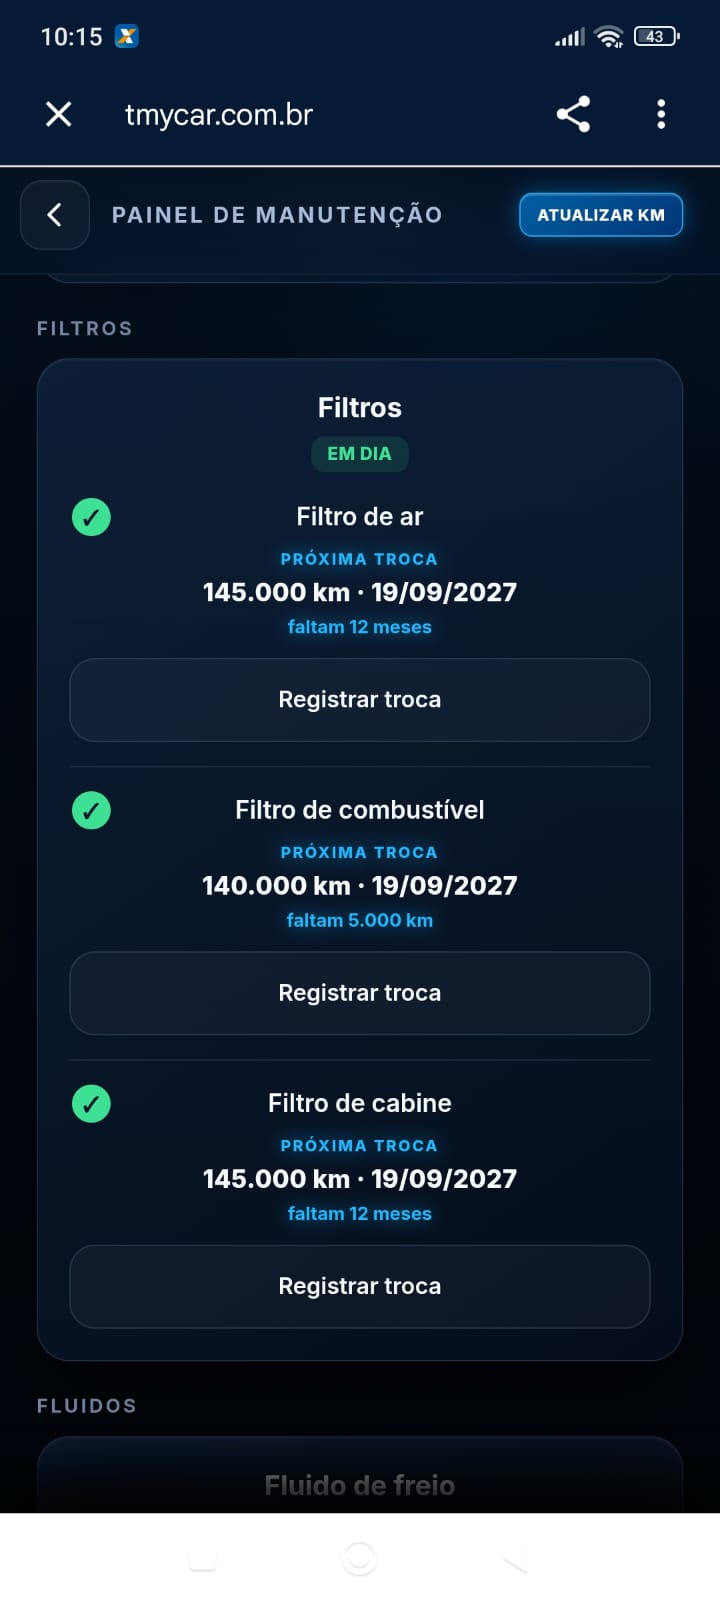
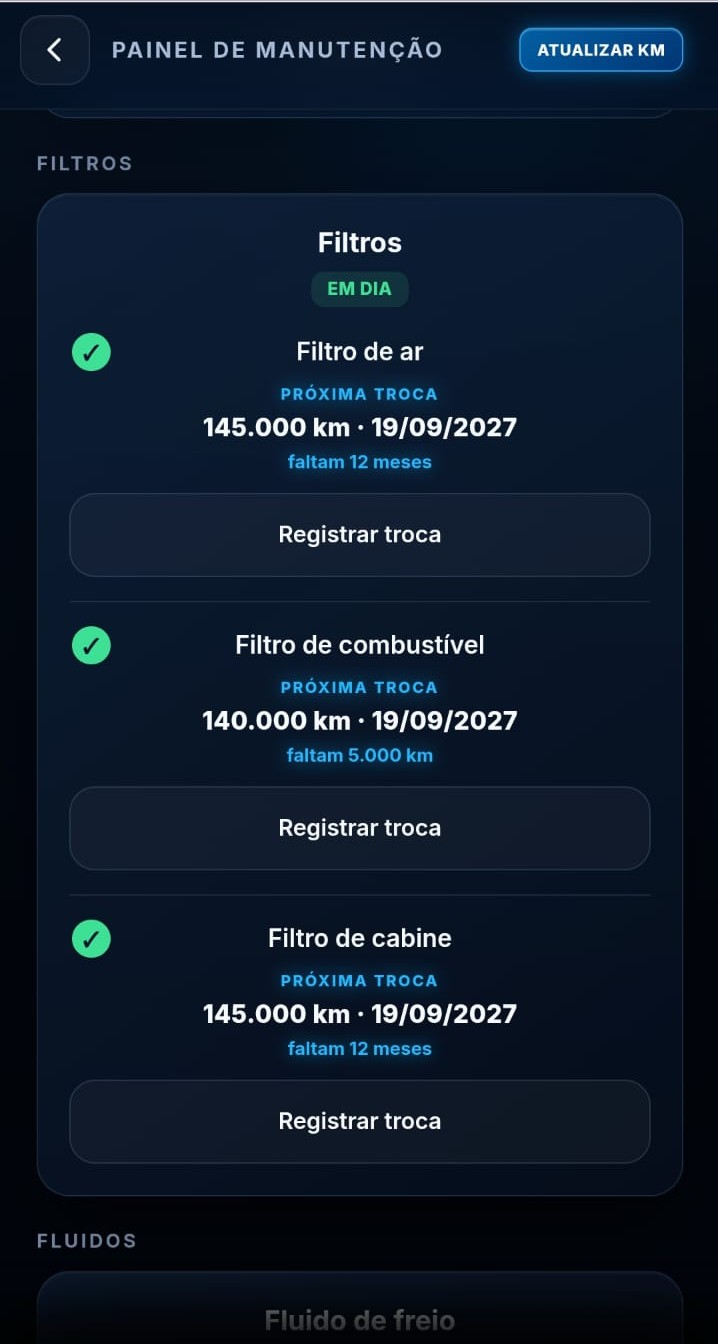
Atualiza cinco fotos do carrossel com capturas editadas
Remove a barra do navegador das imagens de manutenção, filtros, fluidos, gastos e IPVA. Ajusta dimensões e versões das URLs para atualizar o cache. Sem alterações no aplicativo Android.

diff --git a/index.html b/index.html
@@ -50,13 +50,13 @@
 <div class="gallery-stage">
 <figure class="gallery-slide" data-title="Sua garagem · tema claro" role="group" aria-roledescription="slide" aria-label="1 de 11: Sua garagem · tema claro"><button class="photo-open" type="button" aria-label="Ampliar foto: Sua garagem · tema claro"><img src="./assets/site-photos/garagem-claro.jpg" alt="Garagem do TMy Car no tema claro, com veículos, quilometragem e valores FIPE" width="720" height="1600" fetchpriority="high" decoding="async"><span class="expand-photo"><svg class="icon" aria-hidden="true"><use href="#i-expand"/></svg>Ampliar</span></button></figure>
 <figure class="gallery-slide" data-title="Sua garagem · tema escuro" hidden role="group" aria-roledescription="slide" aria-label="2 de 11: Sua garagem · tema escuro"><button class="photo-open" type="button" aria-label="Ampliar foto: Sua garagem · tema escuro"><img src="./assets/site-photos/garagem-escuro.jpg" alt="Garagem do TMy Car no tema escuro" width="720" height="1600" loading="lazy" decoding="async"><span class="expand-photo"><svg class="icon" aria-hidden="true"><use href="#i-expand"/></svg>Ampliar</span></button></figure>
-<figure class="gallery-slide" data-title="Painel de manutenção" hidden role="group" aria-roledescription="slide" aria-label="3 de 11: Painel de manutenção"><button class="photo-open" type="button" aria-label="Ampliar foto: Painel de manutenção"><img src="./assets/site-photos/manutencao.jpg" alt="Painel de manutenção com óleo do motor e correia dentada" width="720" height="1600" loading="lazy" decoding="async"><span class="expand-photo"><svg class="icon" aria-hidden="true"><use href="#i-expand"/></svg>Ampliar</span></button></figure>
-<figure class="gallery-slide" data-title="Acompanhamento dos filtros" hidden role="group" aria-roledescription="slide" aria-label="4 de 11: Acompanhamento dos filtros"><button class="photo-open" type="button" aria-label="Ampliar foto: Acompanhamento dos filtros"><img src="./assets/site-photos/filtros.jpg" alt="Filtros do veículo com próximas trocas por data e quilometragem" width="720" height="1600" loading="lazy" decoding="async"><span class="expand-photo"><svg class="icon" aria-hidden="true"><use href="#i-expand"/></svg>Ampliar</span></button></figure>
-<figure class="gallery-slide" data-title="Fluidos e câmbio" hidden role="group" aria-roledescription="slide" aria-label="5 de 11: Fluidos e câmbio"><button class="photo-open" type="button" aria-label="Ampliar foto: Fluidos e câmbio"><img src="./assets/site-photos/fluidos.jpg" alt="Acompanhamento de líquido de arrefecimento e óleo do câmbio" width="720" height="1600" loading="lazy" decoding="async"><span class="expand-photo"><svg class="icon" aria-hidden="true"><use href="#i-expand"/></svg>Ampliar</span></button></figure>
+<figure class="gallery-slide" data-title="Painel de manutenção" hidden role="group" aria-roledescription="slide" aria-label="3 de 11: Painel de manutenção"><button class="photo-open" type="button" aria-label="Ampliar foto: Painel de manutenção"><img src="./assets/site-photos/manutencao.jpg?v=20261026" alt="Painel de manutenção com óleo do motor e correia dentada" width="713" height="1351" loading="lazy" decoding="async"><span class="expand-photo"><svg class="icon" aria-hidden="true"><use href="#i-expand"/></svg>Ampliar</span></button></figure>
+<figure class="gallery-slide" data-title="Acompanhamento dos filtros" hidden role="group" aria-roledescription="slide" aria-label="4 de 11: Acompanhamento dos filtros"><button class="photo-open" type="button" aria-label="Ampliar foto: Acompanhamento dos filtros"><img src="./assets/site-photos/filtros.jpg?v=20261026" alt="Filtros do veículo com próximas trocas por data e quilometragem" width="718" height="1344" loading="lazy" decoding="async"><span class="expand-photo"><svg class="icon" aria-hidden="true"><use href="#i-expand"/></svg>Ampliar</span></button></figure>
+<figure class="gallery-slide" data-title="Fluidos e câmbio" hidden role="group" aria-roledescription="slide" aria-label="5 de 11: Fluidos e câmbio"><button class="photo-open" type="button" aria-label="Ampliar foto: Fluidos e câmbio"><img src="./assets/site-photos/fluidos.jpg?v=20261026" alt="Acompanhamento de líquido de arrefecimento e óleo do câmbio" width="720" height="1340" loading="lazy" decoding="async"><span class="expand-photo"><svg class="icon" aria-hidden="true"><use href="#i-expand"/></svg>Ampliar</span></button></figure>
 <figure class="gallery-slide" data-title="Consulta da tabela FIPE" hidden role="group" aria-roledescription="slide" aria-label="6 de 11: Consulta da tabela FIPE"><button class="photo-open" type="button" aria-label="Ampliar foto: Consulta da tabela FIPE"><img src="./assets/site-photos/fipe.jpg" alt="Consulta FIPE com valor de referência e informações do veículo" width="934" height="1600" loading="lazy" decoding="async"><span class="expand-photo"><svg class="icon" aria-hidden="true"><use href="#i-expand"/></svg>Ampliar</span></button></figure>
 <figure class="gallery-slide" data-title="Ferramentas para o dia a dia" hidden role="group" aria-roledescription="slide" aria-label="7 de 11: Ferramentas para o dia a dia"><button class="photo-open" type="button" aria-label="Ampliar foto: Ferramentas para o dia a dia"><img src="./assets/site-photos/ferramentas.jpg" alt="Ferramentas de postos, restaurantes, etanol e gasolina, veículos e corridas" width="720" height="1600" loading="lazy" decoding="async"><span class="expand-photo"><svg class="icon" aria-hidden="true"><use href="#i-expand"/></svg>Ampliar</span></button></figure>
-<figure class="gallery-slide" data-title="Controle de gastos" hidden role="group" aria-roledescription="slide" aria-label="8 de 11: Controle de gastos"><button class="photo-open" type="button" aria-label="Ampliar foto: Controle de gastos"><img src="./assets/site-photos/gastos.jpg" alt="Tela de gastos com total, lançamentos e filtro por veículo" width="720" height="1600" loading="lazy" decoding="async"><span class="expand-photo"><svg class="icon" aria-hidden="true"><use href="#i-expand"/></svg>Ampliar</span></button></figure>
-<figure class="gallery-slide" data-title="Organização do IPVA" hidden role="group" aria-roledescription="slide" aria-label="9 de 11: Organização do IPVA"><button class="photo-open" type="button" aria-label="Ampliar foto: Organização do IPVA"><img src="./assets/site-photos/ipva.jpg" alt="Tela de controle dos pagamentos de IPVA" width="720" height="1600" loading="lazy" decoding="async"><span class="expand-photo"><svg class="icon" aria-hidden="true"><use href="#i-expand"/></svg>Ampliar</span></button></figure>
+<figure class="gallery-slide" data-title="Controle de gastos" hidden role="group" aria-roledescription="slide" aria-label="8 de 11: Controle de gastos"><button class="photo-open" type="button" aria-label="Ampliar foto: Controle de gastos"><img src="./assets/site-photos/gastos.jpg?v=20261026" alt="Tela de gastos com total, lançamentos e filtro por veículo" width="716" height="1329" loading="lazy" decoding="async"><span class="expand-photo"><svg class="icon" aria-hidden="true"><use href="#i-expand"/></svg>Ampliar</span></button></figure>
+<figure class="gallery-slide" data-title="Organização do IPVA" hidden role="group" aria-roledescription="slide" aria-label="9 de 11: Organização do IPVA"><button class="photo-open" type="button" aria-label="Ampliar foto: Organização do IPVA"><img src="./assets/site-photos/ipva.jpg?v=20261026" alt="Tela de controle dos pagamentos de IPVA" width="717" height="1333" loading="lazy" decoding="async"><span class="expand-photo"><svg class="icon" aria-hidden="true"><use href="#i-expand"/></svg>Ampliar</span></button></figure>
 <figure class="gallery-slide" data-title="Opções de plano" hidden role="group" aria-roledescription="slide" aria-label="10 de 11: Opções de plano"><button class="photo-open" type="button" aria-label="Ampliar foto: Opções de plano"><img src="./assets/site-photos/planos.jpg" alt="Opções de plano Free, Premium mensal e Premium anual" width="720" height="1600" loading="lazy" decoding="async"><span class="expand-photo"><svg class="icon" aria-hidden="true"><use href="#i-expand"/></svg>Ampliar</span></button></figure>
 <figure class="gallery-slide" data-title="Preferências do aplicativo" hidden role="group" aria-roledescription="slide" aria-label="11 de 11: Preferências do aplicativo"><button class="photo-open" type="button" aria-label="Ampliar foto: Preferências do aplicativo"><img src="./assets/site-photos/ajustes.jpg" alt="Ajustes com temas, planos, notificações e ferramentas" width="720" height="1600" loading="lazy" decoding="async"><span class="expand-photo"><svg class="icon" aria-hidden="true"><use href="#i-expand"/></svg>Ampliar</span></button></figure>
 </div>

diff --git a/sw.js b/sw.js
@@ -15,7 +15,7 @@ firebase.initializeApp({
 });
 firebase.messaging();
 
-const CACHE_APP = 'tmycar-pwa-v1.6.18-web.20261025-apresentacao-v4';
+const CACHE_APP = 'tmycar-pwa-v1.6.18-web.20261025-apresentacao-v5-fotos';
 const INICIO = new URL('./', self.registration.scope).href;
 const HTML_PRINCIPAL = new URL('./index.html', self.registration.scope).href;
 const HTML_APP = new URL('./app.html', self.registration.scope).href;
